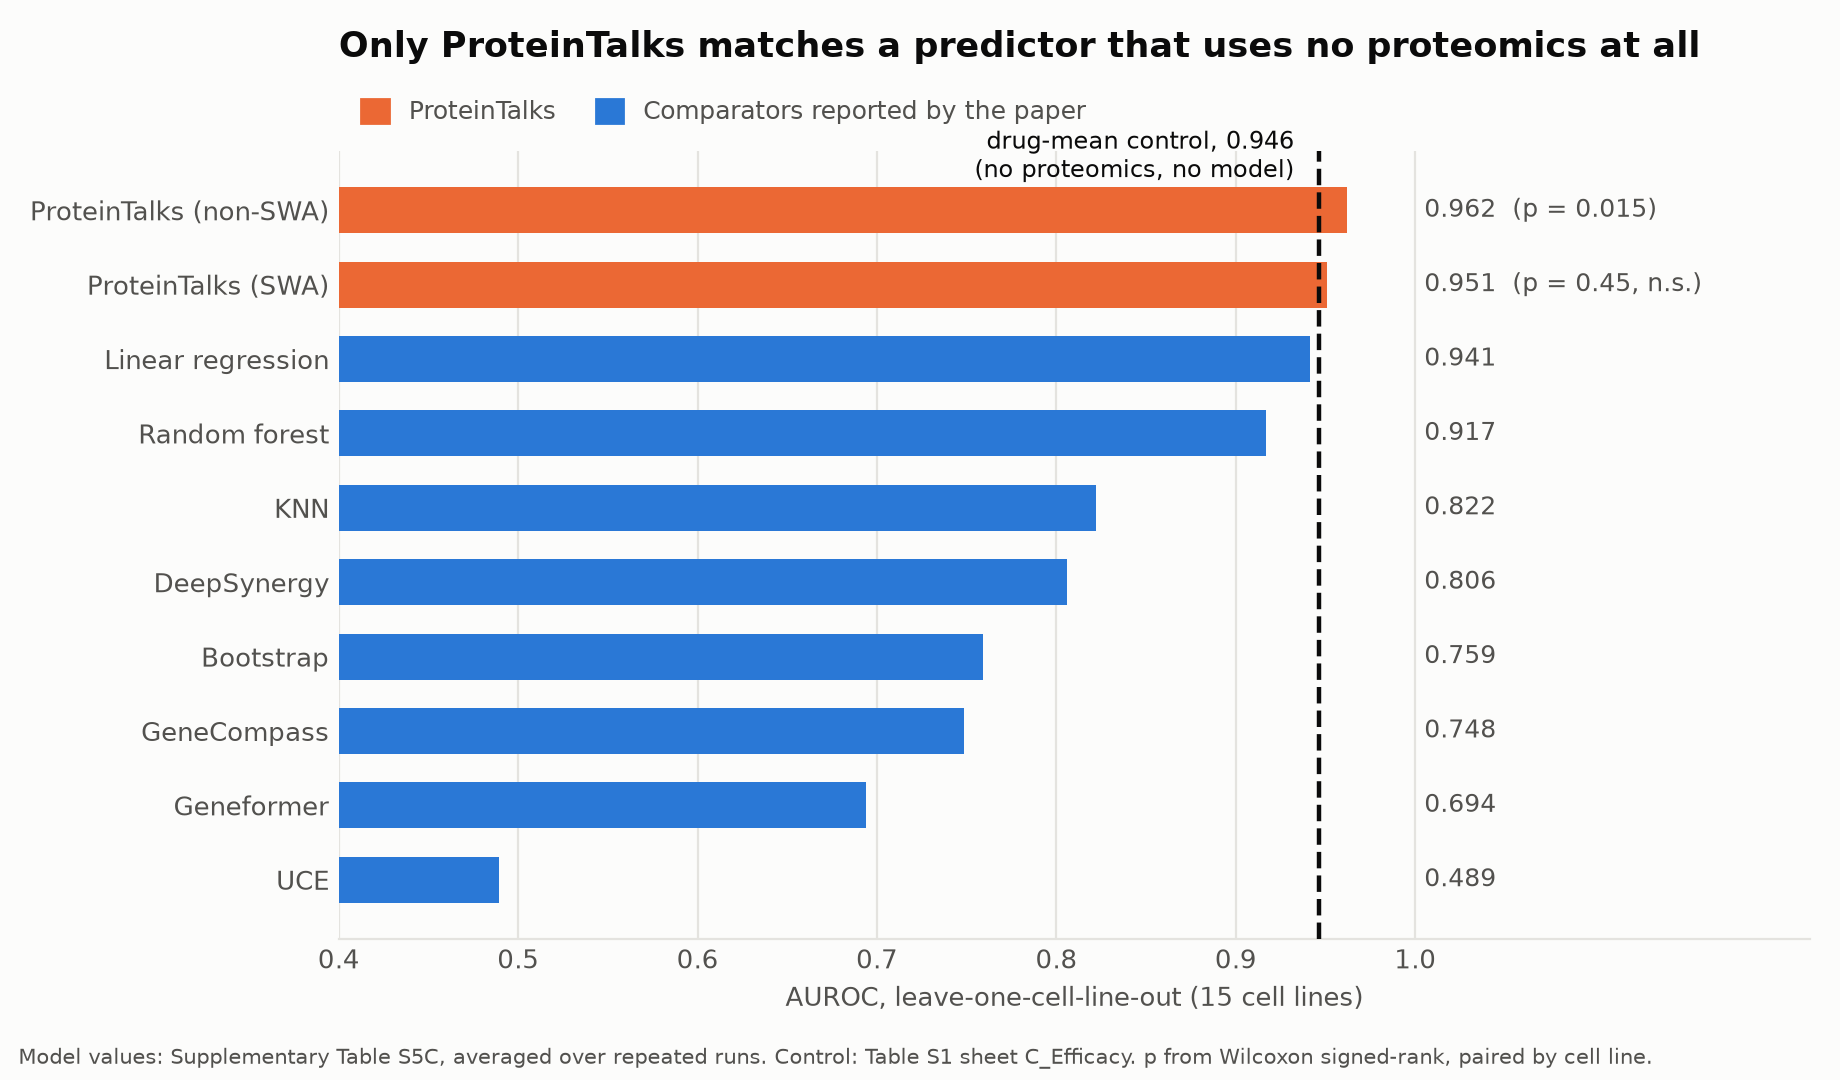
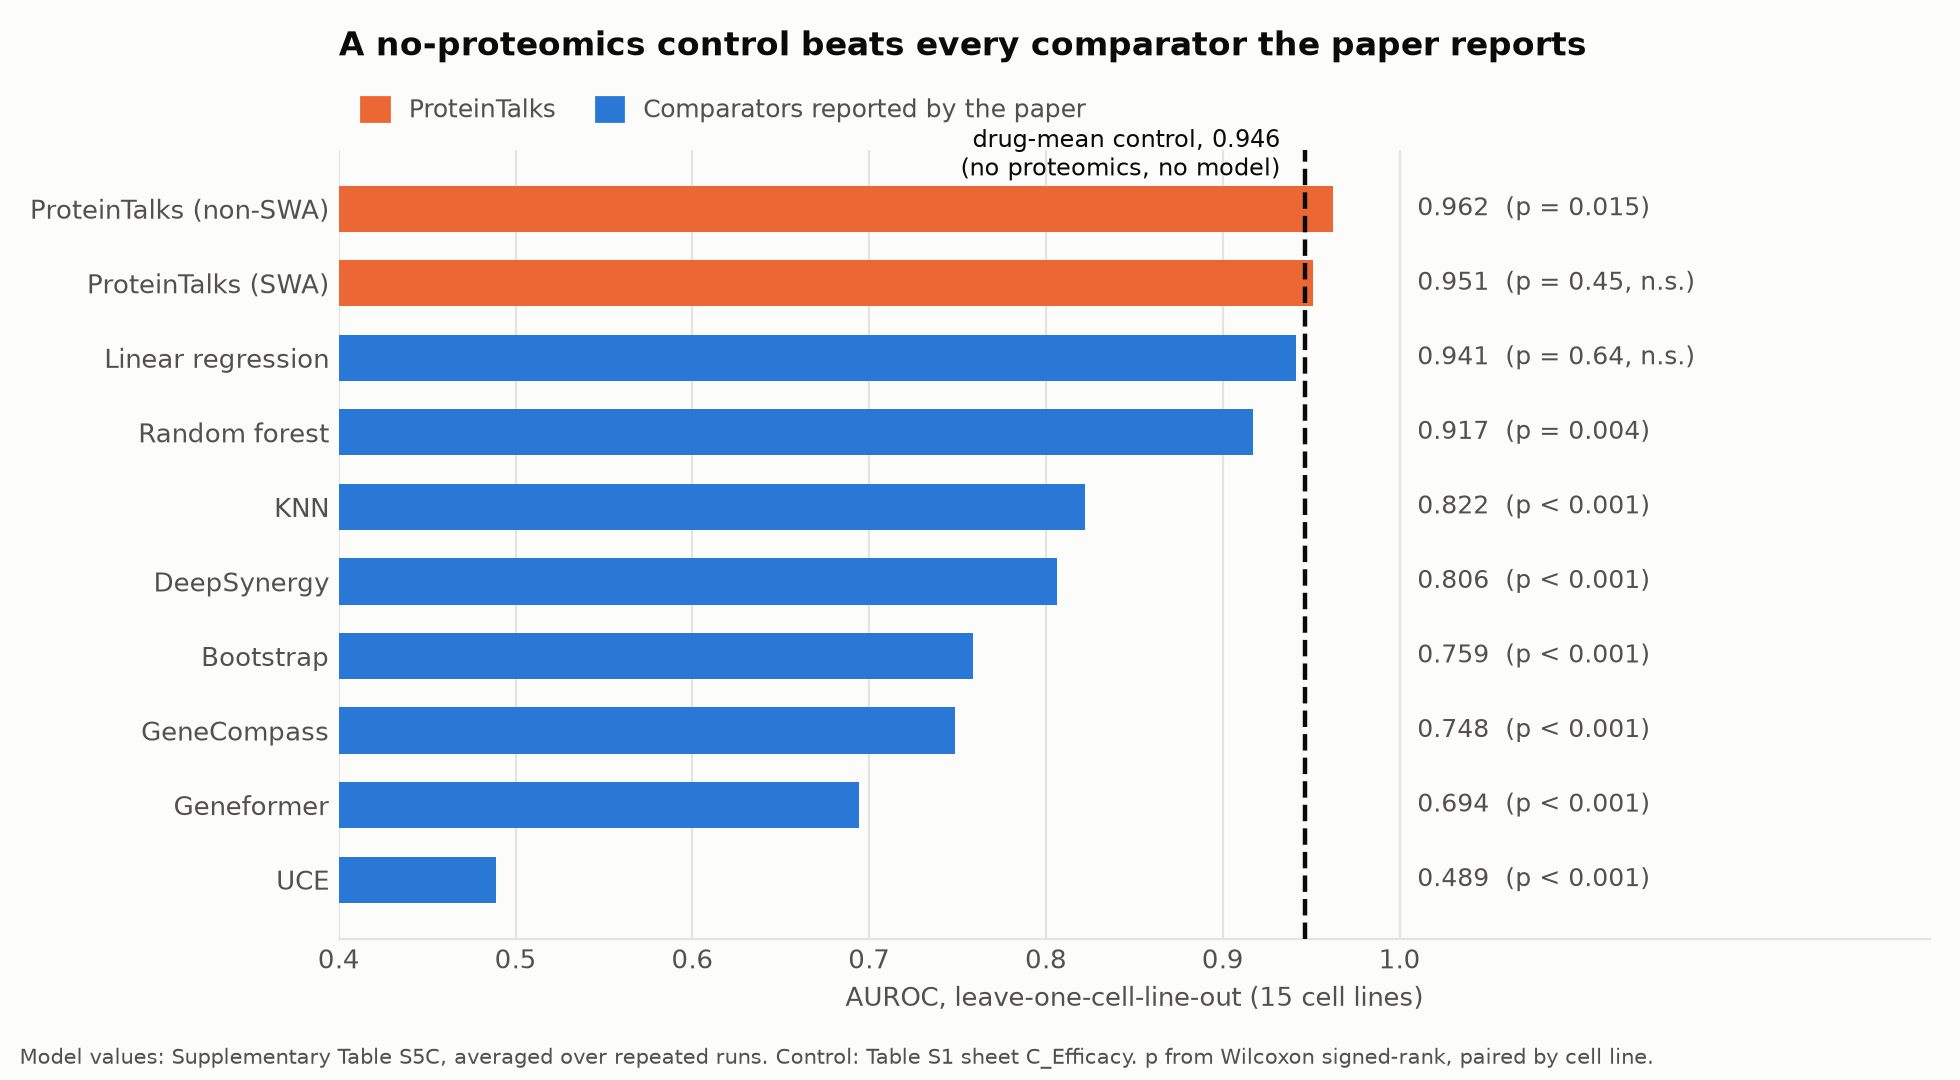
Correct the significance claim: linear regression also ties the control
The earlier wording said ProteinTalks was the only model not significantly
worse than the no-proteome control. That is wrong: linear regression is also
statistically tied with it (p = 0.64). The accurate claim is narrower and is
now used everywhere: ProteinTalks (non-SWA) is the only model significantly
better than the control, and its SWA variant is not (p = 0.45).

The figure now shows the paired p-value for every model rather than only for
the ProteinTalks bars, and its title states the finding that actually holds.

Claude-Session: https://claude.ai/code/session_0128kMtqoKJHv35iyZpgpTy2

diff --git a/proteintalks/scripts/make_figure.py b/proteintalks/scripts/make_figure.py
@@ -54,7 +54,7 @@ def main():
     vals = [r[1] for r in rows]
     is_pt = ["ppODE" in r[3] for r in rows]
 
-    fig, ax = plt.subplots(figsize=(9.2, 5.4), dpi=200)
+    fig, ax = plt.subplots(figsize=(9.8, 5.4), dpi=200)
     fig.patch.set_facecolor(SURFACE)
     ax.set_facecolor(SURFACE)
 
@@ -70,20 +70,23 @@ def main():
 
     # Value labels sit in a fixed column clear of the reference line, so no
     # label can collide with it regardless of bar length.
-    label_x = 1.005
+    label_x = 1.010
     for b, v, p, pt in zip(bars, vals, [r[2] for r in rows], is_pt):
-        note = ""
-        if pt:
-            note = f"  (p = {p:.3f})" if p < 0.05 else f"  (p = {p:.2f}, n.s.)"
+        # Show the paired p-value against the control for every model, so the
+        # reader can see which differences are real in both directions.
+        note = f"  (p = {p:.3f})" if p < 0.001 else (
+            f"  (p = {p:.3f})" if p < 0.05 else f"  (p = {p:.2f}, n.s.)")
+        if p < 0.001:
+            note = "  (p < 0.001)"
         ax.text(label_x, b.get_y() + b.get_height() / 2, f"{v:.3f}{note}",
                 va="center", fontsize=9, color=INK_2)
 
-    ax.set_xlim(0.40, 1.22)
+    ax.set_xlim(0.40, 1.30)
     ax.set_xticks([0.4, 0.5, 0.6, 0.7, 0.8, 0.9, 1.0])
     ax.set_xlabel("AUROC, leave-one-cell-line-out (15 cell lines)", fontsize=9.5, color=INK_2)
     ax.set_title(
-        "Only ProteinTalks matches a predictor that uses no proteomics at all",
-        fontsize=12.5, color=INK, pad=34, loc="left", weight="bold",
+        "A no-proteomics control beats every comparator the paper reports",
+        fontsize=12, color=INK, pad=34, loc="left", weight="bold",
     )
     ax.xaxis.grid(True, color=GRID, lw=0.8, zorder=0)
     ax.set_axisbelow(True)

diff --git a/proteintalks/docs/REPRODUCTION_STATUS.md b/proteintalks/docs/REPRODUCTION_STATUS.md
@@ -182,15 +182,19 @@ lines present in both tables, Wilcoxon signed-rank:
 
 Reading this fairly, in both directions:
 
-- ProteinTalks is the **only** model in the paper's own benchmark that is not
-  significantly worse than a predictor with no inputs. In its non-SWA form it is
-  significantly better, by 0.016 AUROC. That is a real result and it is more
-  than most published perturbation models achieve against this kind of control.
-- The margin is 0.016, not the 0.15–0.28 implied by comparing against the
-  reported baselines. The reported baselines are weak: three transcriptomic
-  foundation models applied zero-shot, and a KNN.
-- Linear regression is statistically indistinguishable from both the control and
-  ProteinTalks.
+- **ProteinTalks (non-SWA) is the only model that is significantly better than a
+  predictor with no inputs**, by 0.016 AUROC (p = 0.015). That is a real result,
+  and it is more than most published perturbation models achieve against this
+  kind of control.
+- Two models are not significantly *worse* than the control: ProteinTalks (both
+  variants) and **linear regression** (0.941, p = 0.64). Everything else the
+  paper benchmarks is significantly worse, including all three transcriptomic
+  foundation models and DeepSynergy.
+- The margin over the control is 0.016, not the 0.15–0.28 implied by comparing
+  against the reported baselines. Those baselines are weak: three transcriptomic
+  foundation models applied zero-shot to a proteomic task, plus a KNN.
+- The SWA variant, which is the one the paper's Table S5A headline corresponds
+  to most closely, is **not** significantly better than the control (p = 0.45).
 
 ## 7. The paper's own supplement already reports the negative result for new drugs
 

diff --git a/proteintalks/README.md b/proteintalks/README.md
@@ -25,16 +25,18 @@ its convolutions use `kernel_size=1`, so each protein's trajectory depends only
 on its own baseline and its own perturbation entry), and the ODE integrates over
 **uniform integer ticks 0,1,2,3** rather than over 0/6/24/48 hours.
 
-**A one-line predictor that uses no proteomics gets most of the way there.** On
-the paper's own openly published label matrix, predicting each drug's average
-efficacy rate across training cell lines scores AUROC 0.919 in the
-leave-one-cell-line-out setting, against ProteinTalks' 0.953 — and beats every
-baseline the paper reports, including Geneformer (0.684) and UCE (0.482).
-Paired per cell line, ProteinTalks' advantage is +0.016 AUROC (p = 0.015).
+**A one-line predictor that uses no proteomics beats every baseline the paper
+reports.** On the paper's own openly published label matrix, predicting each
+drug's average efficacy rate across training cell lines scores AUROC 0.919 in
+the leave-one-cell-line-out setting, ahead of KNN (0.805), DeepSynergy (0.806),
+GeneCompass (0.751), Geneformer (0.684) and UCE (0.482). Paired per cell line,
+ProteinTalks is the only model significantly *better* than that control, by
+0.016 AUROC (p = 0.015), and linear regression is statistically tied with it.
 
 **On unseen drugs the paper's own supplement reports no significant advantage.**
 Table S6: ProteinTalks AUROC 0.638 vs random forest 0.648 (p = 0.80) and linear
-regression 0.669.
+regression 0.669. That is the setting that matters for prospective drug
+discovery.
 
 ![Leave-one-cell-line-out AUROC for every model the paper benchmarks, against a
 drug-mean control that uses no proteomics](figures/cellline_auroc.png)

diff --git a/proteintalks/docs/COMPARISON.md b/proteintalks/docs/COMPARISON.md
@@ -132,9 +132,11 @@ they were never designed for — informative about modality transfer, weak as
 evidence of architectural superiority.
 
 The more demanding comparison is against the drug-mean control, which beats
-every one of those three models by a wide margin and comes within 0.034 of
-ProteinTalks. Paired per cell line, ProteinTalks (non-SWA) is ahead by 0.016
-AUROC, p = 0.015 (`REPRODUCTION_STATUS.md` §6).
+every model in that table by a wide margin and comes within 0.034 of
+ProteinTalks. Paired per cell line, ProteinTalks (non-SWA) is the only model
+significantly ahead of the control, by 0.016 AUROC (p = 0.015); its SWA variant
+is not (p = 0.45), and linear regression is statistically tied with the control
+(p = 0.64). See `REPRODUCTION_STATUS.md` §6.
 
 ## 4. Context: the field's baseline problem
 
@@ -227,8 +229,8 @@ The dataset is a genuine and expensive contribution with no equivalent: 16,311
 perturbation proteomes across 18 cell lines, 63 drugs and four timepoints. The
 model is small, fully released with weights under MIT, and exactly reproducible
 — we matched the reference implementation to 1.8e-7 using the published
-checkpoint. On its own leave-one-cell-line-out task it is the only model
-benchmarked that is not significantly worse than a no-input control. Four
+checkpoint. On its own leave-one-cell-line-out task it is the only
+model benchmarked that is significantly *better* than a no-input control. Four
 predicted synergies validated in cells.
 
 **Claims that need qualification.**
